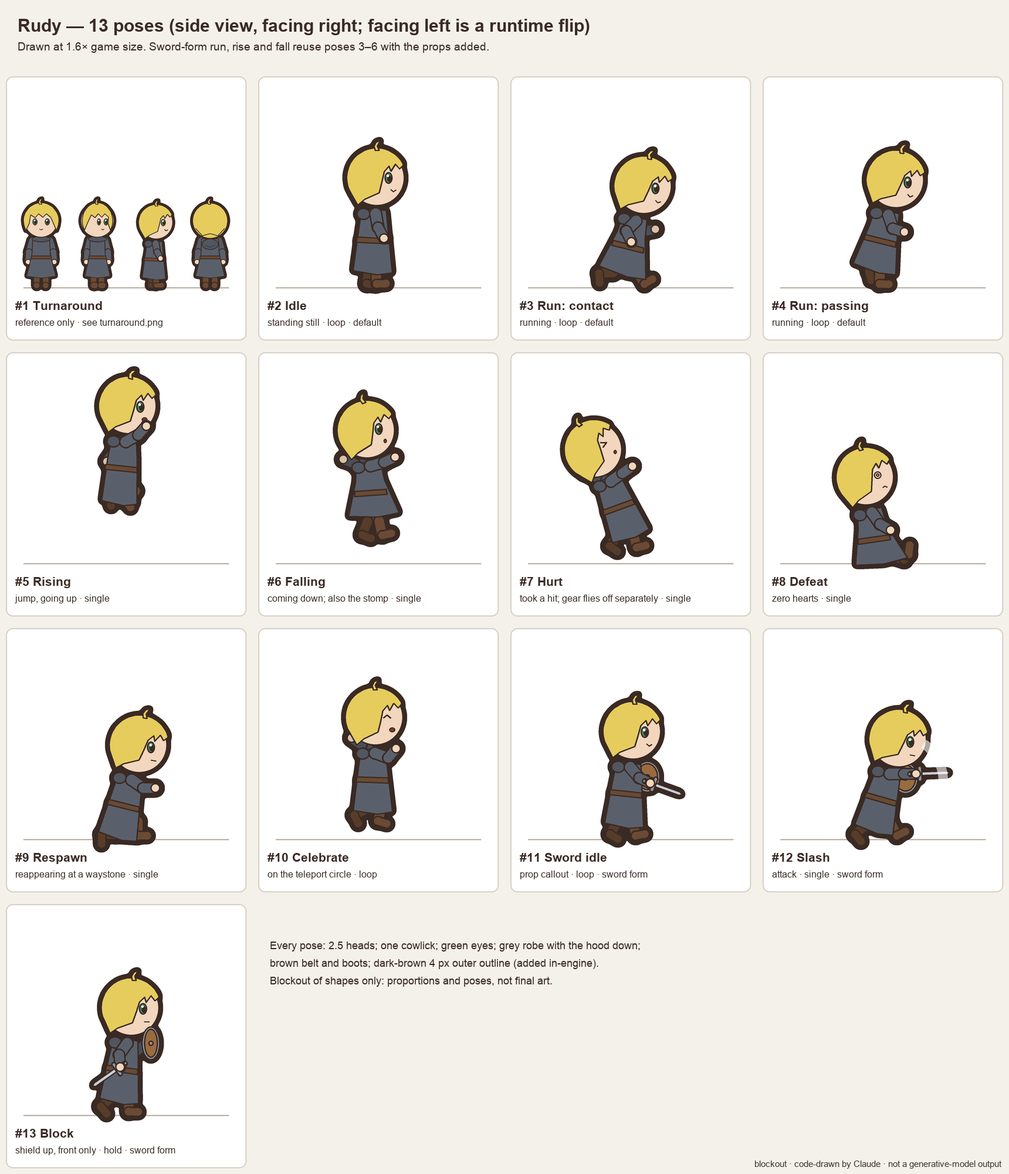
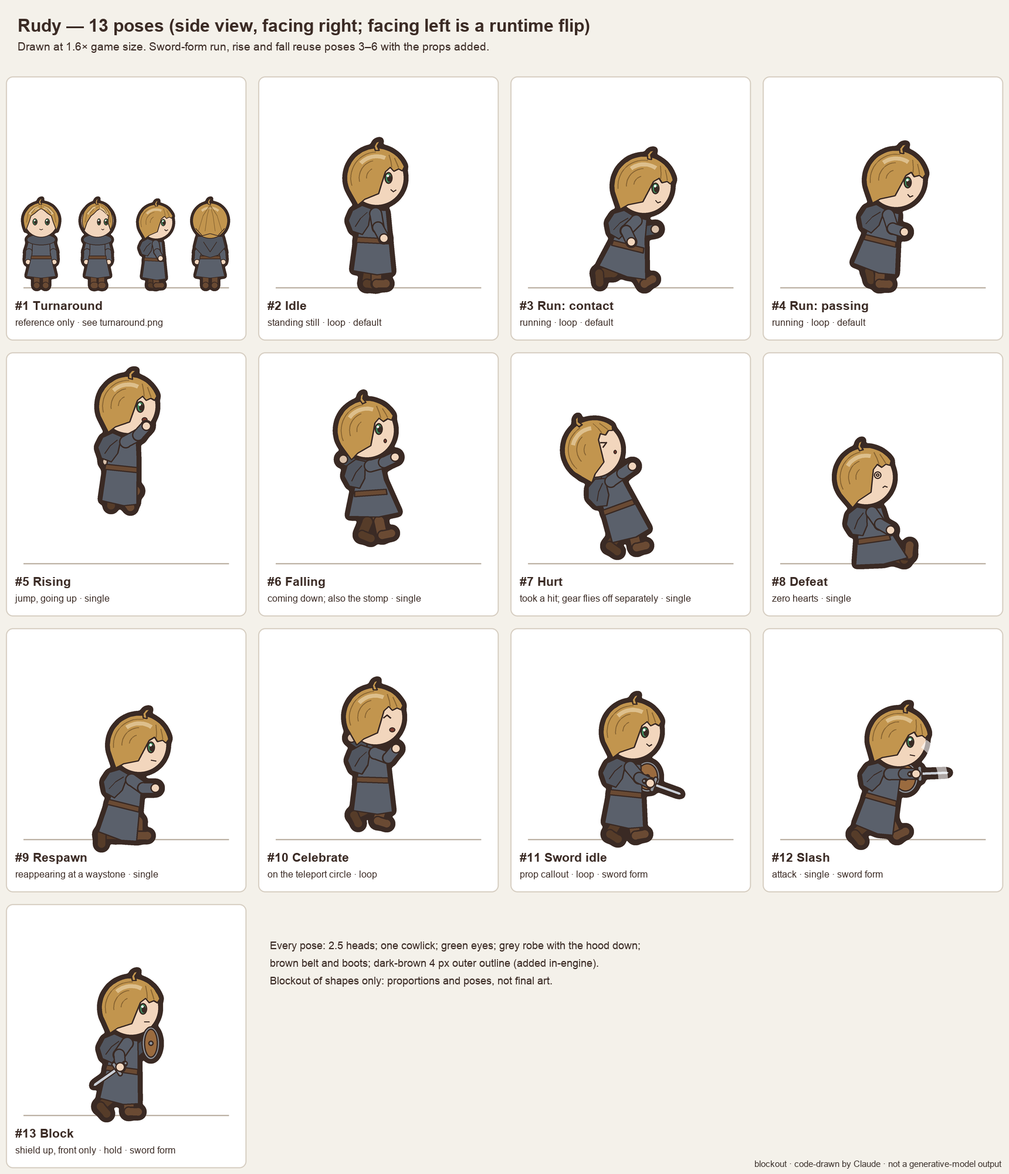
Design v1: seven-panel storyboard, revised Rudy, panel 7 end card
Rudy: browner, center-parted hair drawn with strands and a highlight, a
larger hood, slate-grey robe, 4 px outer outline added in-engine. Panel 1
is now the opening of play with the title on top; panel 7 is a high-angle
"Level complete" card, so the storyboard keeps three angles. The mushroom
monster is about two-thirds of Rudy's height. The image prompts now say
which outputs are committed. No image, sound or music model has been used.

diff --git a/fall-2026/shuai-z/assignment-2/design/generation-prompts.md b/fall-2026/shuai-z/assignment-2/design/generation-prompts.md
@@ -1,13 +1,18 @@
 # Generation prompts — v1 (starting prompts)
 
-> 2026-09-30. Starting prompts, drafted by Claude Code from CHARACTER-SHEET.md, STORYBOARD.md and CHANGE-BRIEF.md. **None of these has been used yet.** Use them only after the `design-v1` commit. The asset log records the exact prompt actually used for each output, including any change made on the way.
+> 2026-09-30, updated 2026-10-01. Starting prompts, drafted by Claude Code from CHARACTER-SHEET.md, STORYBOARD.md and CHANGE-BRIEF.md. **None of these has been used yet.** Use them only after the `design-v1` commit. The asset log records the exact prompt actually used for each output, including any change made on the way.
 
 ## How to use them
 
 1. **Rudy's reference comes first.** Generate CHAR-REF (two or three candidates), then judge each against the character sheet at game size (160 px tall): height in heads, the cowlick, hair color, the robe with the hood down, the outline. Keep one and log the rest as rejected.
 2. **Every pose is an edit of the reference.** Attach CHAR-REF and describe only the change of pose. Consistency comes from the reference image, not from repeating the text.
 3. **Enemies and props match Rudy's style.** Attach CHAR-REF as a style reference, and say that it shows a different character.
-4. **Save every output under its ID and a number**, such as `CHAR-REF-01.png`, in `_raw/`. That folder stays out of git; thumbnails and contact sheets are committed instead.
+4. **Save every output under its ID and a number**, such as `CHAR-REF-01.png`, in `_raw/`. That is a local working folder of full-size downloads, kept out of git. Then:
+   - an accepted output is copied unchanged to `generated/accepted/`;
+   - a rejected output goes in `generated/rejected/` as a small thumbnail or on a contact sheet, as the assignment asks;
+   - the edited, game-ready version goes into the Godot project.
+
+   All three are committed.
 5. **Record for each output:** the model name and version exactly as the tool shows them, the date, the exact prompt, the attached images, and the size or aspect ratio. Hosted chat tools do not expose a seed, so write "seed: not available".
 6. If an image comes back with a visible watermark, note it in the asset log, and check the tool's terms before cropping it out.
 7. Never add the name of an artist, a studio, a game or a franchise to any prompt.
@@ -35,7 +40,7 @@ Style: a painterly, hand-painted 2D game background, like a high-quality TV anim
 
 ```text
 A character turnaround sheet of one boy, Rudy, shown four times side by side at exactly the same height and scale, standing in a relaxed neutral pose with his arms at his sides: front view, three-quarter view, side view facing right, and back view.
-Rudy is a cheerful boy drawn in chibi proportions, exactly 2.5 heads tall (his head is 40% of his height). Medium-length yellow-blond hair, more yellow than gold, covering his ears and ending at the nape, with one cowlick curling up from the crown. Large green eyes and a small, friendly smile. A plain knee-length slate-grey mage robe with long sleeves; the hood is down, resting on his back. A brown leather belt and brown leather boots. No hat, no jewelry, no emblem, no weapon.
+Rudy is a cheerful boy drawn in chibi proportions, exactly 2.5 heads tall (his head is 40% of his height). Medium-length blond hair with a light-brown tint (browner than golden blond), parted in the middle with curtain bangs framing his face, covering his ears and ending at the nape, drawn with visible strands and texture rather than a flat fill; one cowlick curling up from the crown. Large green eyes and a small, friendly smile. A plain knee-length slate-grey mage robe with long sleeves and a large hood; the hood is down, lying across his shoulders and upper back. A brown leather belt and brown leather boots. No hat, no jewelry, no emblem, no weapon.
 Style: a 2D game sprite in anime style. Clean cel shading with exactly two tones per color (a flat base and one flat shadow), a fine dark-brown outline of even weight, and flat, neutral front lighting: no rim light, no glow, no cast shadow, no gradients. Background: one plain, flat, solid steel-blue color (#4F7CAA) filling the whole image, with no floor, no shadow, no other objects and no text.
 Wide image, 16:9.
 ```
@@ -45,7 +50,7 @@ Wide image, 16:9.
 Paste this template and replace `[POSE]` with one line from the table:
 
 ```text
-Use the attached image as the exact character reference: the same boy, Rudy, with the same proportions (2.5 heads tall), face, yellow-blond hair and cowlick, green eyes, grey robe with the hood down, brown belt and boots, colors and dark-brown outline. Draw only one figure: Rudy in side view facing right, [POSE]. Keep the same cel-shaded style, flat neutral lighting and the same plain, solid steel-blue background (#4F7CAA). Change nothing except the pose. Square image.
+Use the attached image as the exact character reference: the same boy, Rudy, with the same proportions (2.5 heads tall), face, center-parted light-brown-blond hair with its strands and cowlick, green eyes, grey robe with the large hood down, brown belt and boots, colors and dark-brown outline. Draw only one figure: Rudy in side view facing right, [POSE]. Keep the same cel-shaded style, flat neutral lighting and the same plain, solid steel-blue background (#4F7CAA). Change nothing except the pose. Square image.
 ```
 
 | ID | `[POSE]` |
@@ -65,7 +70,7 @@ Use the attached image as the exact character reference: the same boy, Rudy, wit
 **CHAR-SWORD-IDLE** (attach CHAR-REF). This image becomes the reference for the sword form.
 
 ```text
-Use the attached image as the exact character reference: the same boy, Rudy, with the same proportions, face, hair and cowlick, eyes, grey robe with the hood down, belt, boots, colors and outline. Draw only one figure: Rudy in side view facing right, in a ready stance, holding a short, plain, straight steel sword in one hand with the blade pointing forward and down, and a small round wooden shield with a plain iron rim and no emblem on the other arm. Keep the same cel-shaded style, flat neutral lighting and the same plain, solid steel-blue background (#4F7CAA). Square image.
+Use the attached image as the exact character reference: the same boy, Rudy, with the same proportions, face, hair and cowlick, eyes, grey robe with the large hood down, belt, boots, colors and outline. Draw only one figure: Rudy in side view facing right, in a ready stance, holding a short, plain, straight steel sword in one hand with the blade pointing forward and down, and a small round wooden shield with a plain iron rim and no emblem on the other arm. Keep the same cel-shaded style, flat neutral lighting and the same plain, solid steel-blue background (#4F7CAA). Square image.
 ```
 
 **Slash and block** (attach CHAR-SWORD-IDLE). Paste this template and replace `[POSE]`:
@@ -142,6 +147,14 @@ A magic teleport circle drawn on the ground, seen from a low side angle so that 
 Style: a 2D game sprite in anime style, with clean cel shading and a fine dark-brown outline where there are solid edges; the circle itself may glow. Centered, with empty margin. Background: one plain, flat, solid steel-blue color (#4F7CAA), with nothing else in the image and no text. Wide image, 16:9.
 ```
 
+### ENV-ENDCARD — the "Level complete" card (new image)
+
+```text
+A high, elevated view looking down over a late-medieval European countryside in autumn: a dirt road winds from the bottom left of the image, between golden wheat fields and green meadows, all the way to a grey stone castle small on the far horizon. Near the start of the road, a faint, softly glowing magic circle lies on the ground. No characters, no animals, no text. Leave calm sky at the top for a title to sit on.
+Style: a painterly, hand-painted 2D game background, like a high-quality TV anime background: detailed watercolor and gouache textures, soft natural light, a muted natural palette with low saturation and warm earthy tones, atmospheric depth, subtle film grain. A clear autumn afternoon.
+16:9, at the largest size.
+```
+
 ## Props, enemies and UI
 
 ### PROP-SWORDSHIELD (attach CHAR-SWORD-IDLE)
@@ -173,7 +186,7 @@ The same goblin, exactly as attached, squashed flat by a stomp from above, dizzy
 The mushroom must not resemble any existing game's mushroom: it has no feet, and its cap is not red with white spots.
 
 ```text
-Match the art style of the attached image exactly (the same cel shading, outline weight, flat lighting and plain steel-blue background), but draw a different character: a stationary mushroom monster rooted in the ground, with no legs and no feet. A squat, lumpy, pale stem with two small dark eyes and a round mouth, under a wide, drooping, rust-orange autumn cap with a few darker ochre speckles. Grumpy rather than cute, about as tall as the boy in the reference. One figure, side view facing right. Square image.
+Match the art style of the attached image exactly (the same cel shading, outline weight, flat lighting and plain steel-blue background), but draw a different character: a stationary mushroom monster rooted in the ground, with no legs and no feet. A squat, lumpy, pale stem with two small dark eyes and a round mouth, under a wide, drooping, rust-orange autumn cap with a few darker ochre speckles. Grumpy rather than cute, about two-thirds as tall as the boy in the reference. One figure, side view facing right. Square image.
 ```
 
 Attack (attach the chosen mushroom):

diff --git a/fall-2026/shuai-z/assignment-2/CHARACTER-SHEET.md b/fall-2026/shuai-z/assignment-2/CHARACTER-SHEET.md
@@ -1,10 +1,10 @@
 # Character sheet — Rudy
 
-> Draft v1, 2026-09-30, following the assignment's template. This is the contract that generated frames must meet. Images go in `design/character/`. The first committed version uses code-drawn blockouts (see Images below). Generated versions of the reference and poses are added later as a revision below; the blockouts stay in place.
+> Draft v2, 2026-10-01, following the assignment's template. This is the contract that generated frames must meet. Images go in `design/character/`. The first committed version uses code-drawn blockouts (see Images below). Generated versions of the reference and poses are added later as a revision below; the blockouts stay in place.
 
-- **Concept in one sentence:** a cheerful chibi boy, 2.5 heads tall, with medium-length yellow-blond hair and one cowlick, green eyes and a grey mage robe with the hood down; in Level 1 he can pick up a short sword and a small round shield.
+- **Concept in one sentence:** a cheerful chibi boy, 2.5 heads tall, with medium-length, center-parted blond hair that leans toward light brown and one cowlick, green eyes, and a grey mage robe whose large hood lies down on his shoulders; in Level 1 he can pick up a short sword and a small round shield.
 - **Game size:** the game renders at 1920×1080 (16:9). In play Rudy is 160 px tall from the soles to the tip of the cowlick (15% of the screen height); his head is about 64 px.
-- **Silhouette at on-screen size:** `design/character/silhouette.png` shows the idle, run, sword-idle and block poses filled solid black at 160 px on a 1920×1080 frame. At that size it must read as a big round head, the cowlick, a robe that flares at the knees, and, in the sword form, the round shield and the line of the blade.
+- **Silhouette at on-screen size:** `design/character/silhouette.png` shows the idle, run, sword-idle and block poses filled solid black at 160 px on a 1920×1080 frame. At that size it must read as a big round head, the cowlick, the large hood on his back, a robe that flares at the knees, and, in the sword form, the round shield and the line of the blade.
 - **Orientation:** drawn facing right; facing left is a horizontal flip at runtime. The front, three-quarter and back views appear only in the turnaround. Flipping swaps which hand holds the sword and the shield, and that is accepted. When hurt, Rudy turns toward the hit, so the hurt pose is needed in one direction only.
 - **Reference:** `design/character/turnaround.png` shows the front, three-quarter, side (facing right) and back views at the same height, with a height bar marked at 160 px and at 2.5 heads.
 
@@ -45,7 +45,7 @@ This overhang is fair because it never hurts the player. Enemies, spores and spi
 
 | Use | Hex |
 |---|---|
-| Hair, yellow-blond (more yellow than gold) | `#E6CC5C` |
+| Hair, blond leaning toward light brown | `#C2954E` |
 | Eyes, green | `#3E8E5E` |
 | Robe, slate grey | `#5A606B` |
 | Skin | `#F2D6BD` |
@@ -56,13 +56,13 @@ This overhang is fair because it never hurts the player. Enemies, spores and spi
 
 | Rudy | wheat | meadow | sky | castle | path |
 |---|---|---|---|---|---|
-| hair | 1.21 | 1.66 | 1.17 | 1.45 | 2.23 |
+| hair | 1.42 | 1.03 | 2.01 | 1.17 | 1.31 |
 | robe | 3.29 | 2.39 | 4.66 | 2.73 | 1.78 |
 | skin | 1.39 | 1.91 | 1.02 | 1.67 | 2.57 |
 | boots | 4.13 | 3.00 | 5.85 | 3.43 | 2.23 |
 | outline | 7.10 | 5.16 | 10.06 | 5.89 | 3.84 |
 
-The fills barely separate from the background: the hair against the wheat is only 1.21. The robe stays grey, but a slightly darker slate grey: against the wheat it went from 2.38 (`#6F7682`) to 3.29. The outline is what keeps Rudy visible. It is a 4 px dark-brown outer outline, added in-engine around every frame, so it is identical in all of them and does not depend on what the image model draws. `design/character/palette.png` shows the idle blockout on each planned color, in color and in grayscale. These are planned colors. The check is repeated on the generated Rudy over the generated Level 1 background, and if it fails, the background's middle values move, not Rudy's design.
+The fills barely separate from the background: the hair is 1.42 against the wheat (1.21 when it was yellow-blond `#E6CC5C`) and 1.03 against the meadow. The robe stays grey, but a slightly darker slate grey: against the wheat it went from 2.38 (`#6F7682`) to 3.29. The outline is what keeps Rudy visible. It is a 4 px dark-brown outer outline, added in-engine around every frame, so it is identical in all of them and does not depend on what the image model draws. `design/character/palette.png` shows the idle blockout on each planned color, in color and in grayscale. These are planned colors. The check is repeated on the generated Rudy over the generated Level 1 background, and if it fails, the background's middle values move, not Rudy's design.
 
 ## Consistency rules
 
@@ -71,11 +71,11 @@ Every frame is judged against these rules:
 - **Height:** 2.5 heads; the head is 40% of the height; 160 px at game size in every frame.
 - **Eyes:** large and green, on the head's horizontal center line, the same shape in every frame.
 - **Cowlick:** one, at the crown, always present and always curling the same way.
-- **Hair:** medium length, covering the ears and ending at the nape; never long and never short.
-- **Robe:** grey, knee-length, long-sleeved, with the hood always down on his back.
+- **Hair:** medium length, parted in the middle with curtain bangs, covering the ears and ending at the nape; never long and never short. Drawn with visible strands and one highlight band, not as a flat fill.
+- **Robe:** slate grey, knee-length, long-sleeved. The large hood is always down, lying on his shoulders and upper back.
 - **Accessories:** a brown belt and brown boots; nothing else, no jewelry and no emblems.
 - **Outline:** a 4 px dark-brown outer outline at game size, added in-engine and the same in every frame. Interior lines are fine and even.
-- **Shading:** two tones (a base and one shadow) under flat, neutral light; no rim light, no glow, no cast shadow.
+- **Shading:** two tones (a base and one shadow) under flat, neutral light, plus the hair's highlight band; no rim light, no glow, no cast shadow.
 - **Props:** the sword is short and straight; the shield is small, round and wooden, with a plain iron rim and no emblem. Both keep the same size relative to Rudy.
 - **Rights:** nothing that recalls a well-known game hero: no green tunic, no pointed cap, no pointed ears, no triangle emblem.
 

diff --git a/fall-2026/shuai-z/assignment-2/STORYBOARD.md b/fall-2026/shuai-z/assignment-2/STORYBOARD.md
@@ -1,31 +1,32 @@
 # STORYBOARD — walker-rudy
 
-> Draft v1, 2026-09-30. Panels follow the assignment's template. Frame shape: 16:9 throughout. Gameplay panels show what the game camera shows, a 1920×1080 view that follows Rudy; design views are moments outside normal play, or shots that set how a moment should feel. Pictures are blockout thumbnails in `design/storyboard/`, drawn by code that Claude wrote (`design/tools/make_blockouts.py`). They are not generative-model outputs; I chose this route instead of hand sketches.
+> Draft v3, 2026-10-01. Panels follow the assignment's template. Frame shape: 16:9 throughout. Gameplay panels show what the game camera shows, a 1920×1080 view that follows Rudy; design views are moments outside normal play, or shots that set how a moment should feel. Pictures are blockout thumbnails in `design/storyboard/`, drawn by code that Claude wrote (`design/tools/make_blockouts.py`). They are not generative-model outputs; I chose this route instead of hand sketches.
 
 | Panel | Moment | View | Angle | Motion | Type |
 |---|---|---|---|---|---|
-| 1 | First sight: the title screen | wide | high | camera pans right | design view |
+| 1 | First sight: the title over the opening of play | medium | eye level | — (the title fades; play starts on the same screen) | gameplay |
 | 2 | Core action: over the spikes, onto a goblin | medium | eye level | jump arc, stomp bounce, camera follows | gameplay |
 | 3 | Success: the sword and shield | close-up | low | — | design view |
 | 4 | Failure: a spore from behind | medium | eye level | spore path, knockback, gear flying off, camera shake | gameplay |
 | 5 | Recovery: back at the waystone | medium | eye level | fall arrow, fade, respawn | gameplay |
 | 6 | The end: the teleport circle | wide | eye level | run-in arrow, rising light, camera zooms out | gameplay, then transition |
+| 7 | Level complete: the road to the castle | wide | high | — | design view (end card) |
 
 Requirements check:
-- **Three views:** wide (1, 6), medium (2, 4, 5), close-up (3).
-- **Three angles:** high (1), eye level (2, 4, 5, 6), low (3).
-- **Motion:** shown on panels 1, 2, 4, 5 and 6.
+- **Three views:** wide (6, 7), medium (1, 2, 4, 5), close-up (3).
+- **Three angles:** eye level (1, 2, 4, 5, 6), low (3), high (7).
+- **Motion:** shown on panels 2, 4, 5 and 6.
 
-## Panel 1 — First sight: the title screen
+## Panel 1 — First sight: the title over the opening of play
 
 ![sketch](design/storyboard/01-first-sight.png)
 
-- **Shot:** wide · high angle · design view (title screen) · motion: the camera pans slowly right along the path toward the castle
-- **Player action:** presses Enter on the title screen; the camera settles on the start of the path and play begins
-- **See:** the whole valley from above: golden wheat meeting green meadow, the path running right, the castle small on the far horizon; Rudy tiny at the start of the path; the game title
-- **Hear:** the theme starts softly (music: playing)
-- **Assets:** ENV-SKY-CASTLE, ENV-FIELDS, CHAR-IDLE, UI-TITLE, MUS-LOOP
-- **Design reason (P4 — A journey into another world):** the first thing the player feels is a warm, wide world with somewhere far to go
+- **Shot:** medium · eye level · gameplay view (the opening of Level 1, with the title on top) · motion: none; the title fades out
+- **Player action:** presses Enter; the title fades and play starts on the same screen, with no loading and no scene change
+- **See:** the start of Level 1: Rudy idle on the path, golden wheat meeting green meadow, the castle small on the far horizon; the game title and "press Enter to start"; the hearts appear when play starts
+- **Hear:** the theme starts softly under the title and keeps playing into play without restarting (music: playing)
+- **Assets:** ENV-SKY-CASTLE, ENV-FIELDS, ENV-GROUND, CHAR-IDLE, UI-TITLE, UI-HEART, MUS-LOOP
+- **Design reason (P4 — A journey into another world):** the very first frame is the world itself, and one key press puts the player in it
 
 ## Panel 2 — Core action: over the spikes, onto a goblin
 
@@ -76,8 +77,19 @@ Requirements check:
 ![sketch](design/storyboard/06-teleport-circle.png)
 
 - **Shot:** wide · eye level · gameplay view, ending in a transition · motion: Rudy runs into the circle (arrow); light rises from the circle; the camera zooms out slowly
-- **Player action:** steps onto the teleport circle; input stops, Rudy celebrates, and the screen fades to "Level complete"
+- **Player action:** steps onto the teleport circle; input stops, Rudy celebrates, and the screen fades to the end card (panel 7)
 - **See:** the celebrate pose, the glowing circle with rising light, the castle still on the horizon
 - **Hear:** the arrival shimmer (SFX-PORTAL); music: fades out under it, then quiet on the end card
 - **Assets:** CHAR-CELEBRATE, ENV-PORTAL, ENV-SKY-CASTLE, ENV-FIELDS, SFX-PORTAL, MUS-LOOP
 - **Design reason (P4 — A journey into another world):** reaching the circle feels like arriving and setting off again, with the castle still ahead
+
+## Panel 7 — Level complete: the road to the castle
+
+![sketch](design/storyboard/07-level-complete.png)
+
+- **Shot:** wide · high angle · design view (the end card) · motion: none
+- **Player action:** none; the run is over and the card holds. Enter plays Level 1 again from the opening.
+- **See:** "Level complete" over a high view of the countryside: the teleport circle Rudy just used, and the road winding from it across golden wheat and green meadow to the castle on the horizon
+- **Hear:** nothing; the music has faded out, and the card is silent
+- **Assets:** ENV-ENDCARD, UI-TITLE (the "Level complete" text)
+- **Design reason (P4 — A journey into another world):** the session ends by showing how far the road still goes, so finishing a level feels like the start of the next stretch

diff --git a/fall-2026/shuai-z/assignment-2/FRICTIONAL.md b/fall-2026/shuai-z/assignment-2/FRICTIONAL.md
@@ -168,3 +168,62 @@ A dated log of the design as it happened: what I wanted, what I asked for, what 
     - airborne poses placed wrongly against the capsule.
 - **Human / Claude / model:** the decisions above are mine. The code, the images and the darker grey are Claude's and still need my look. No generative model was used.
 - **Still unresolved:** my look at the 11 pictures before the `design-v1` tag.
+
+## 2026-10-01 — What the blockouts are for; Rudy's hair and hood; the first sight
+
+*Written on 2026-10-01.*
+
+- **Asked:** whether the code-drawn pictures exist only to satisfy "design before generation", and why `_raw/` stays out of git when the assignment wants generated images in git.
+- **Got:**
+  - The blockouts are also the storyboard and character-sheet pictures themselves, and the contract that generated frames are judged against. They are compared again in the test report and the film.
+  - Claude's earlier `_raw/` instruction was incomplete. Corrected: only full-size working downloads stay local. Accepted originals (`generated/accepted/`), rejected thumbnails (`generated/rejected/`) and the game's edited assets are committed.
+- **Wanted:** Rudy closer to how I picture him, a first sight that is the game itself, and a smaller mushroom.
+- **Decided:**
+  - **Hood:** bigger.
+  - **Hair:** a bit browner, parted in the middle, drawn with strands and texture rather than a flat fill.
+  - **First sight:** the opening of the 2D game itself, not a 45° overview. Pressing Enter starts play seamlessly on the same screen.
+  - **Mushroom monster:** smaller.
+- **Got (Claude's calls in this step):**
+  - Hair `#C2954E`: contrast against the wheat 1.21 → 1.42, and 1.03 against the meadow.
+  - The hood is drawn draped over the shoulders and upper back.
+  - The mushroom is about two-thirds of Rudy's height.
+  - Panel 1 had been the only high angle. To keep three angles, panel 4 now uses a Dutch angle: on impact the camera shakes and rolls about 6°, then levels, and the HUD stays level. This needs my approval.
+  - The theme starts under the title and keeps playing into play without restarting.
+- **Human / Claude / model:** the decisions above are mine. The colors, the shapes, the Dutch angle and the text are Claude's. No generative model was used.
+- **Still unresolved:**
+  - whether I accept the Dutch angle on panel 4;
+  - my look at the redrawn pictures;
+  - the `design-v1` tag.
+
+## 2026-10-01 — No Dutch angle; a seventh panel instead
+
+*Written on 2026-10-01.*
+
+- **Decided:**
+  - No tilted camera on panel 4.
+  - Instead, a seventh panel: the "Level complete" end card as a high, wide view of the road to the castle. I chose this from Claude's two options (a Dutch angle on panel 4, or a high-angle end card).
+- **Got:**
+  - Panel 4 is back to eye level, with the camera shake only.
+  - Panel 7 is drawn and added to STORYBOARD.md, CHANGE-BRIEF.md (ENV-ENDCARD, "could"), CONCEPT.md and the prompts.
+  - The storyboard's three angles are now eye level (1, 2, 4, 5, 6), low (3) and high (7).
+  - Claude's calls:
+    - the end card is silent and has no motion;
+    - Enter on the card plays Level 1 again (an assumption, still to confirm);
+    - ENV-ENDCARD is "could", and is cut together with UI-TITLE.
+- **Human / Claude / model:** the choice is mine; the drawing and the text are Claude's. No generative model was used.
+- **Still unresolved:**
+  - my look at panels 4 and 7;
+  - the `design-v1` tag.
+
+## 2026-10-01 — design-v1: the design before the first generation
+
+*Written on 2026-10-01.*
+
+- **Decided:** I confirmed panels 4 and 7, and Claude's two open calls: Enter on the end card plays Level 1 again, and ENV-ENDCARD is "could". The drafts are now design v1.
+- **Got:** this commit, tagged `design-v1`. It contains:
+  - CONCEPT.md, STORYBOARD.md (seven panels), CHARACTER-SHEET.md and CHANGE-BRIEF.md;
+  - the 12 blockout images;
+  - `design/generation-prompts.md` (prompts v1);
+  - this log.
+- **Human / Claude / model:** no image, sound or music model was used before this tag.
+- **Next:** generate CHAR-REF first, and judge it against the character sheet at 160 px.

diff --git a/fall-2026/shuai-z/assignment-2/CONCEPT.md b/fall-2026/shuai-z/assignment-2/CONCEPT.md
@@ -1,10 +1,10 @@
 # CONCEPT — walker-rudy
 
-> Draft v3, 2026-09-30. Written in English with Claude Code from my answers to a design intake. The design decisions are mine. Changes between drafts are logged in FRICTIONAL.md.
+> Draft v4, 2026-10-01. Written in English with Claude Code from my answers to a design intake. The design decisions are mine. Changes between drafts are logged in FRICTIONAL.md.
 
 ## The game in two sentences
 
-You play Rudy, a cheerful chibi boy with medium-length yellow-blond hair, green eyes and a grey robe with the hood down, who crosses a medieval countryside to reach the teleport circle at the end of each level. He runs, jumps and stomps goblins; with a sword and shield or a magic staff he can also fight and block, until a hit knocks the gear away.
+You play Rudy, a cheerful chibi boy with medium-length, center-parted blond hair that leans toward light brown, green eyes and a grey robe with a large hood worn down, who crosses a medieval countryside to reach the teleport circle at the end of each level. He runs, jumps and stomps goblins; with a sword and shield or a magic staff he can also fight and block, until a hit knocks the gear away.
 
 ## Core loop
 
@@ -33,7 +33,7 @@ Characters are chibi (2–3 heads tall) in clean anime cel shading, with fine, e
 - **Light:** a clear autumn afternoon with low, warm sun, long soft shadows and a little haze in the distance.
 - **Era and mood:** the late-medieval European countryside at harvest time, where golden wheat meets green meadow; quiet, warm and unhurried.
 
-**Known risk:** Rudy's yellow-blond hair and grey robe could disappear against yellow wheat and grey stone. The robe stays grey; the outer outline keeps him visible. The silhouette and palette checks in the character sheet must test him against the actual Level 1 background.
+**Known risk:** Rudy's blond hair and grey robe could disappear against yellow wheat and grey stone. The robe stays grey; the outer outline keeps him visible. The silhouette and palette checks in the character sheet must test him against the actual Level 1 background.
 
 ## Audio direction
 
@@ -49,7 +49,7 @@ The music should feel like a light, unhurried country adventure with a faraway f
 
 ## Level 1 — Harvest Fields
 
-A forgiving level of about 30 seconds on a clear autumn afternoon, in the wheat fields outside a village, with a castle far away. On the way are cliffs, spikes, patrolling goblins, and a stationary mushroom monster, rooted in the ground, that aims at Rudy and puffs balls of spores at him. Both enemies can be stomped. The only gear in this level is the sword and shield: the shield blocks the spores from the front, but they cannot be cut down. A waystone in the middle of the level is the checkpoint, and there is no health pack. The level ends at the teleport circle. Later levels (not designed yet) add the staff, golden health packs, and enemies that cannot be stomped.
+A forgiving level of about 30 seconds on a clear autumn afternoon, in the wheat fields outside a village, with a castle far away. On the way are cliffs, spikes, patrolling goblins, and a stationary mushroom monster, rooted in the ground, that aims at Rudy and puffs balls of spores at him. Both enemies can be stomped. The only gear in this level is the sword and shield: the shield blocks the spores from the front, but they cannot be cut down. A waystone in the middle of the level is the checkpoint, and there is no health pack. The level ends at the teleport circle, and a "Level complete" card looks down on the road ahead to the castle. Later levels (not designed yet) add the staff, golden health packs, and enemies that cannot be stomped.
 
 ## Open questions
 

diff --git a/fall-2026/shuai-z/assignment-2/CHANGE-BRIEF.md b/fall-2026/shuai-z/assignment-2/CHANGE-BRIEF.md
@@ -1,17 +1,19 @@
 # CHANGE-BRIEF — walker-rudy
 
-> Draft v1, 2026-09-30. This is the plan and the predictions for the Assignment 2 asset slice: Level 1 as one Godot 4.7.2 scene at 1920×1080. The deadline is the evening of 2026-10-04, so every asset has a priority, and a cut order follows the list.
+> Draft v3, 2026-10-01. This is the plan and the predictions for the Assignment 2 asset slice: Level 1 as one Godot 4.7.2 scene at 1920×1080. The deadline is the evening of 2026-10-04, so every asset has a priority, and a cut order follows the list.
 
 ## Rules this plan assumes
 
-These rules come from CONCEPT.md, plus one assumption marked below:
+These rules come from CONCEPT.md and the decisions logged in FRICTIONAL.md:
 
 - Rudy starts in the default form with 3 hearts.
 - Any hit (an enemy, a spore, spikes) knocks the gear away if he carries it; otherwise it costs one heart.
 - There is short invulnerability after every hit.
+- On a hit, the camera shakes briefly (panel 4).
+- On the "Level complete" card, Enter plays Level 1 again from the opening.
 - Falling below a cliff is instant death.
 - Zero hearts or a fall sends Rudy back to the last waystone with 3 hearts.
-- **Assumption:** after a death Rudy respawns without gear, and the sword-and-shield pickup reappears where it was.
+- After a death Rudy respawns without gear, and the sword-and-shield pickup reappears where it was.
 - Level 1 has one waystone near the middle, one sword-and-shield pickup, no health pack, and ends at the teleport circle.
 
 ## Asset list
@@ -41,7 +43,8 @@ Priorities: **must** means it is in the slice; **should** means it is planned fo
 | ENEMY-MUSHROOM | mushroom monster: idle, attack, squashed | 4 | generated | should |
 | FX-SPORE | spore projectile | 4 | generated | should |
 | UI-HEART | full and empty heart | 4, 5 | generated | must |
-| UI-TITLE | title screen | 1 | text over ENV art | could |
+| UI-TITLE | the title over the opening of play, and the "Level complete" text | 1, 7 | text | could |
+| ENV-ENDCARD | end card: a high view of the road to the castle | 7 | generated | could |
 | SFX-JUMP | jump (the **action** event) | 2 | generated | must |
 | SFX-STOMP | stomp defeats an enemy (**success**) | 2 | generated | must |
 | SFX-PICKUP | gear picked up (**success**) | 3 | generated | must |
@@ -53,7 +56,7 @@ Priorities: **must** means it is in the slice; **should** means it is planned fo
 | MUS-LOOP | the Level 1 theme, looping | 1–6 | generated | must |
 
 **Cut order** if the schedule slips:
-1. UI-TITLE.
+1. UI-TITLE and ENV-ENDCARD; the slice then opens straight into play and ends on a plain "Level complete" text.
 2. The respawn, defeat and celebrate poses.
 3. SFX-FALL and SFX-CHECKPOINT.
 4. The mushroom (ENEMY-MUSHROOM, FX-SPORE, SFX-SPORE, SFX-BLOCK, CHAR-SWORD-BLOCK). Panel 4's failure would then come from touching a goblin.
@@ -81,6 +84,7 @@ All sounds go through one entry point, `Sfx.play(id)`, called right after the co
 
 | Moment | What the music does |
 |---|---|
+| Title | MUS-LOOP starts under the title and keeps playing when Enter starts play; it does not restart |
 | Normal play | MUS-LOOP plays continuously on the Music bus |
 | Pause | the Music bus drops 12 dB until play resumes; the loop keeps its place |
 | Hurt (failure) | dips 6 dB for about 0.6 s under SFX-HURT, then returns |

diff --git a/fall-2026/shuai-z/assignment-2/README.md b/fall-2026/shuai-z/assignment-2/README.md
@@ -14,7 +14,7 @@ You play Rudy, a cheerful chibi boy who crosses a medieval countryside to reach 
 ## Design documents
 
 - [CONCEPT.md](CONCEPT.md): the game on one page (draft)
-- [STORYBOARD.md](STORYBOARD.md): six panels of the play experience (draft; blockout pictures in `design/storyboard/`)
+- [STORYBOARD.md](STORYBOARD.md): seven panels of the play experience (draft; blockout pictures in `design/storyboard/`)
 - [CHARACTER-SHEET.md](CHARACTER-SHEET.md): the contract for Rudy's generated frames (draft; blockout images in `design/character/`)
 - [CHANGE-BRIEF.md](CHANGE-BRIEF.md): the asset list, event-to-sound map, music behavior and predicted failures (draft)
 - [design/generation-prompts.md](design/generation-prompts.md): starting prompts, not used yet
